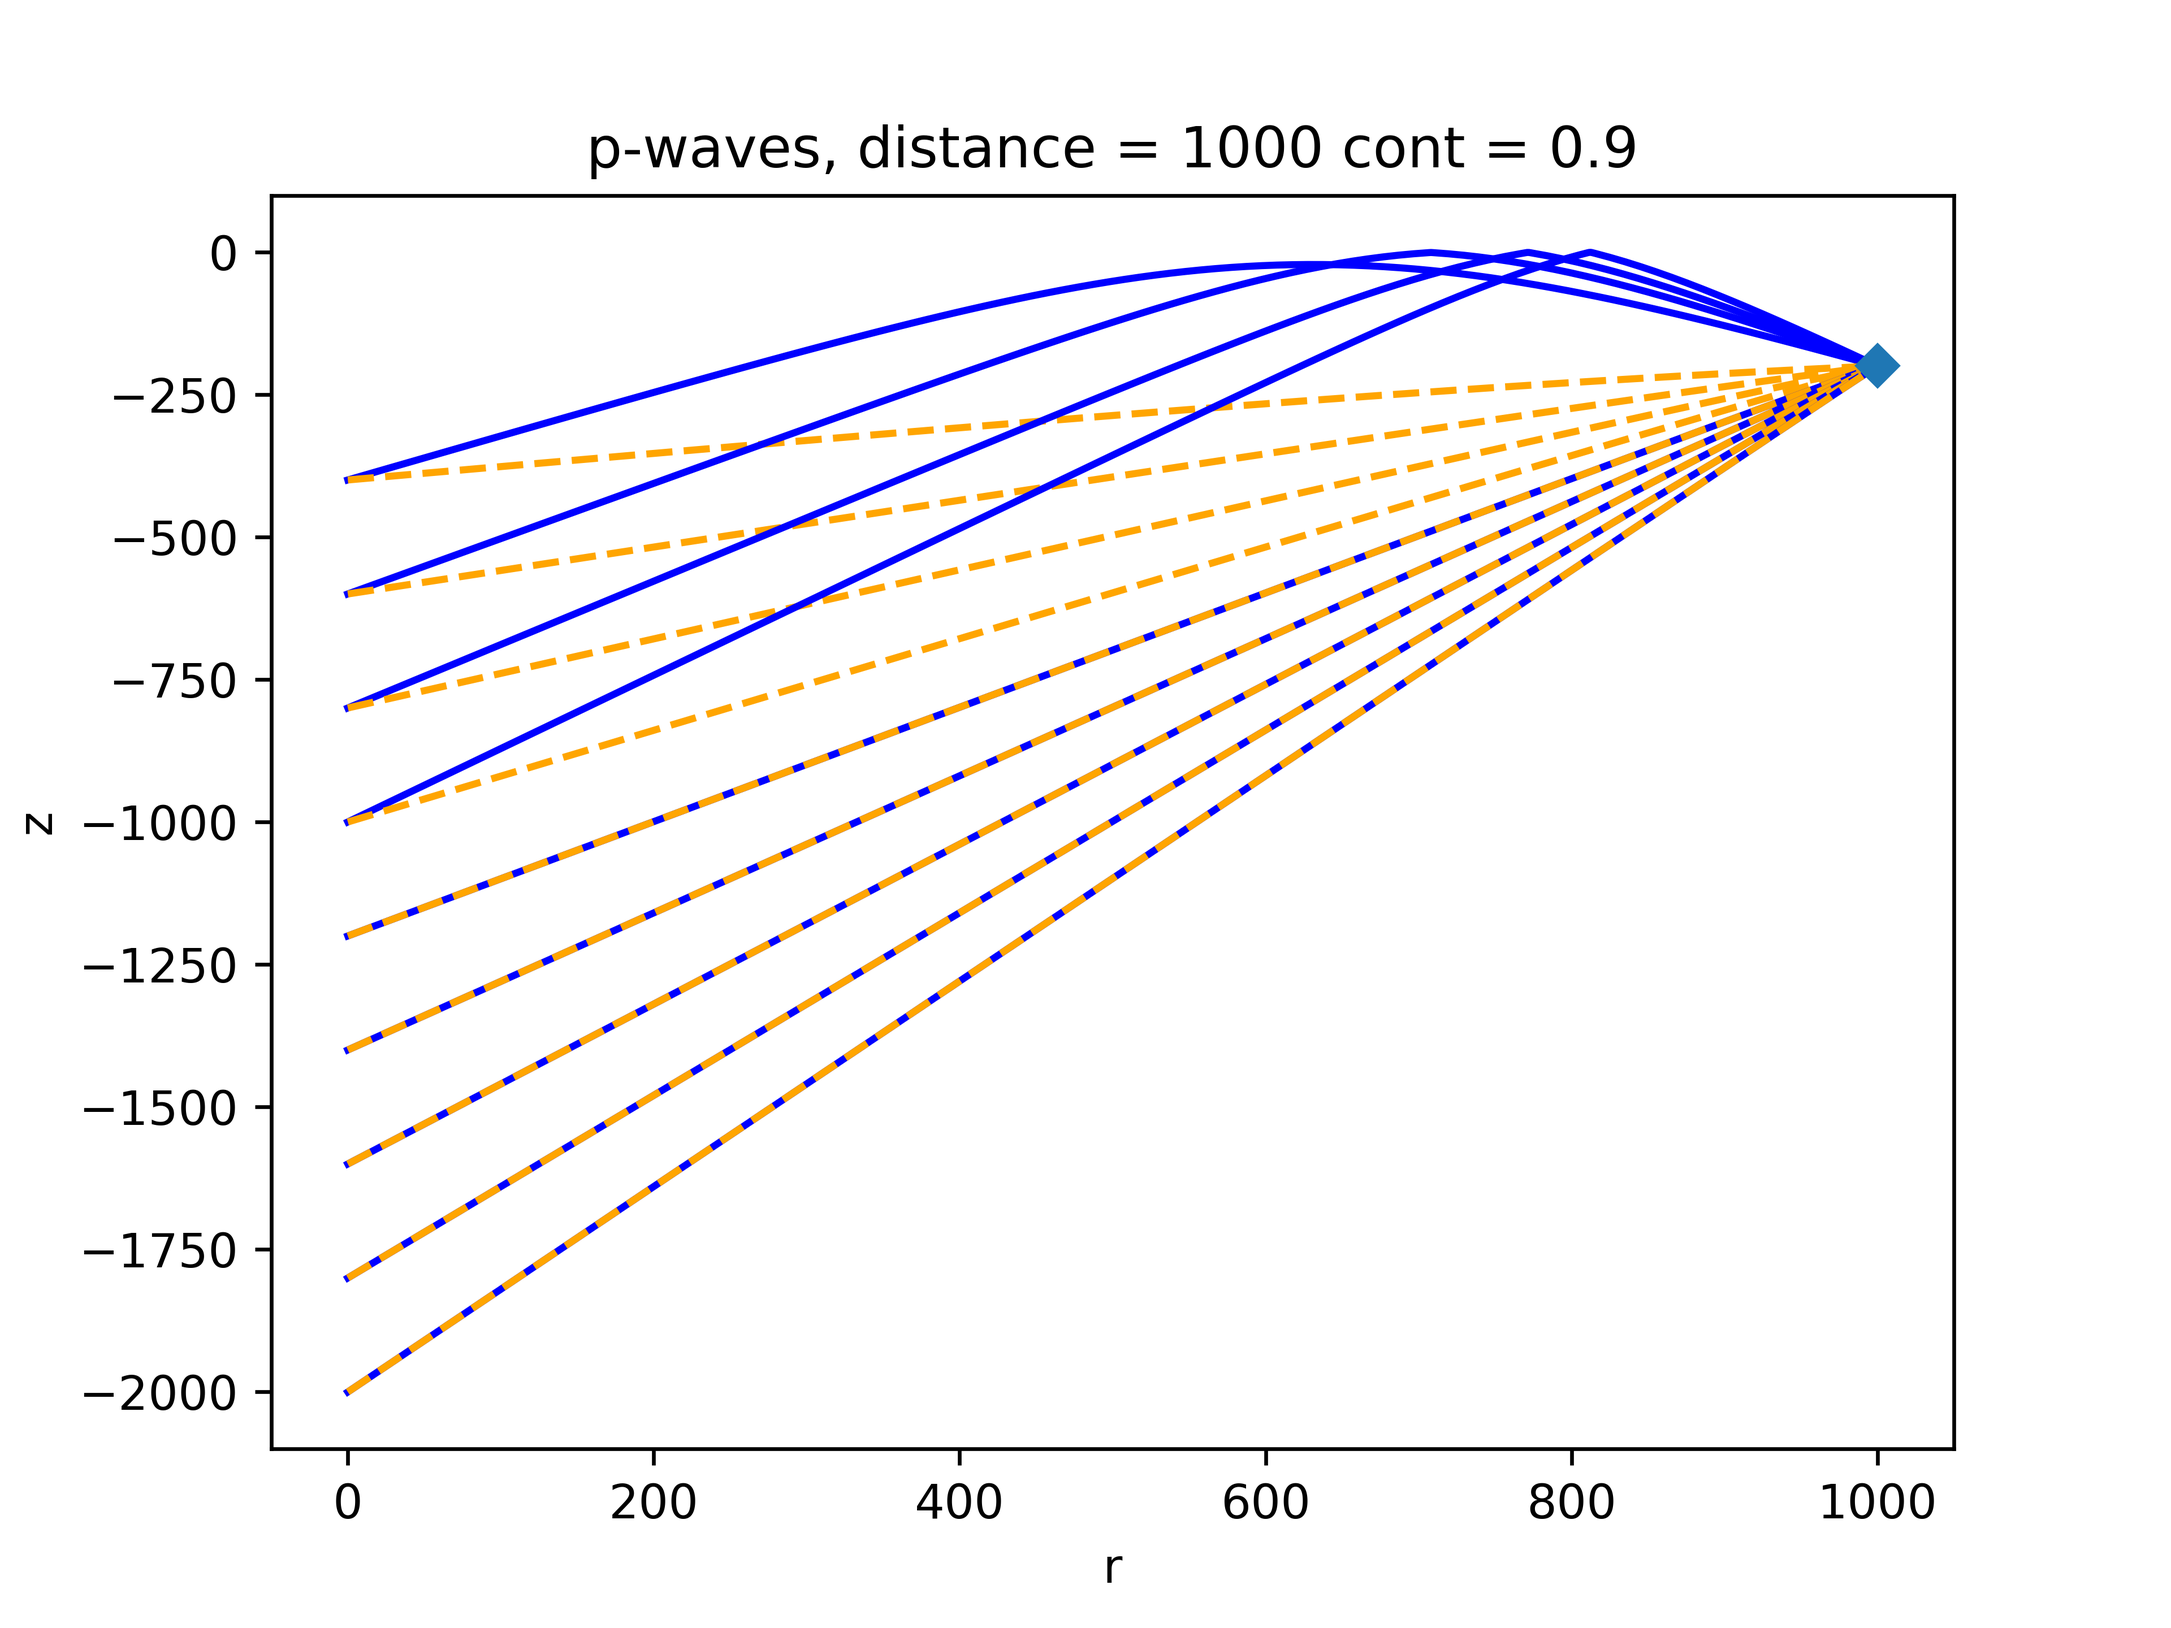
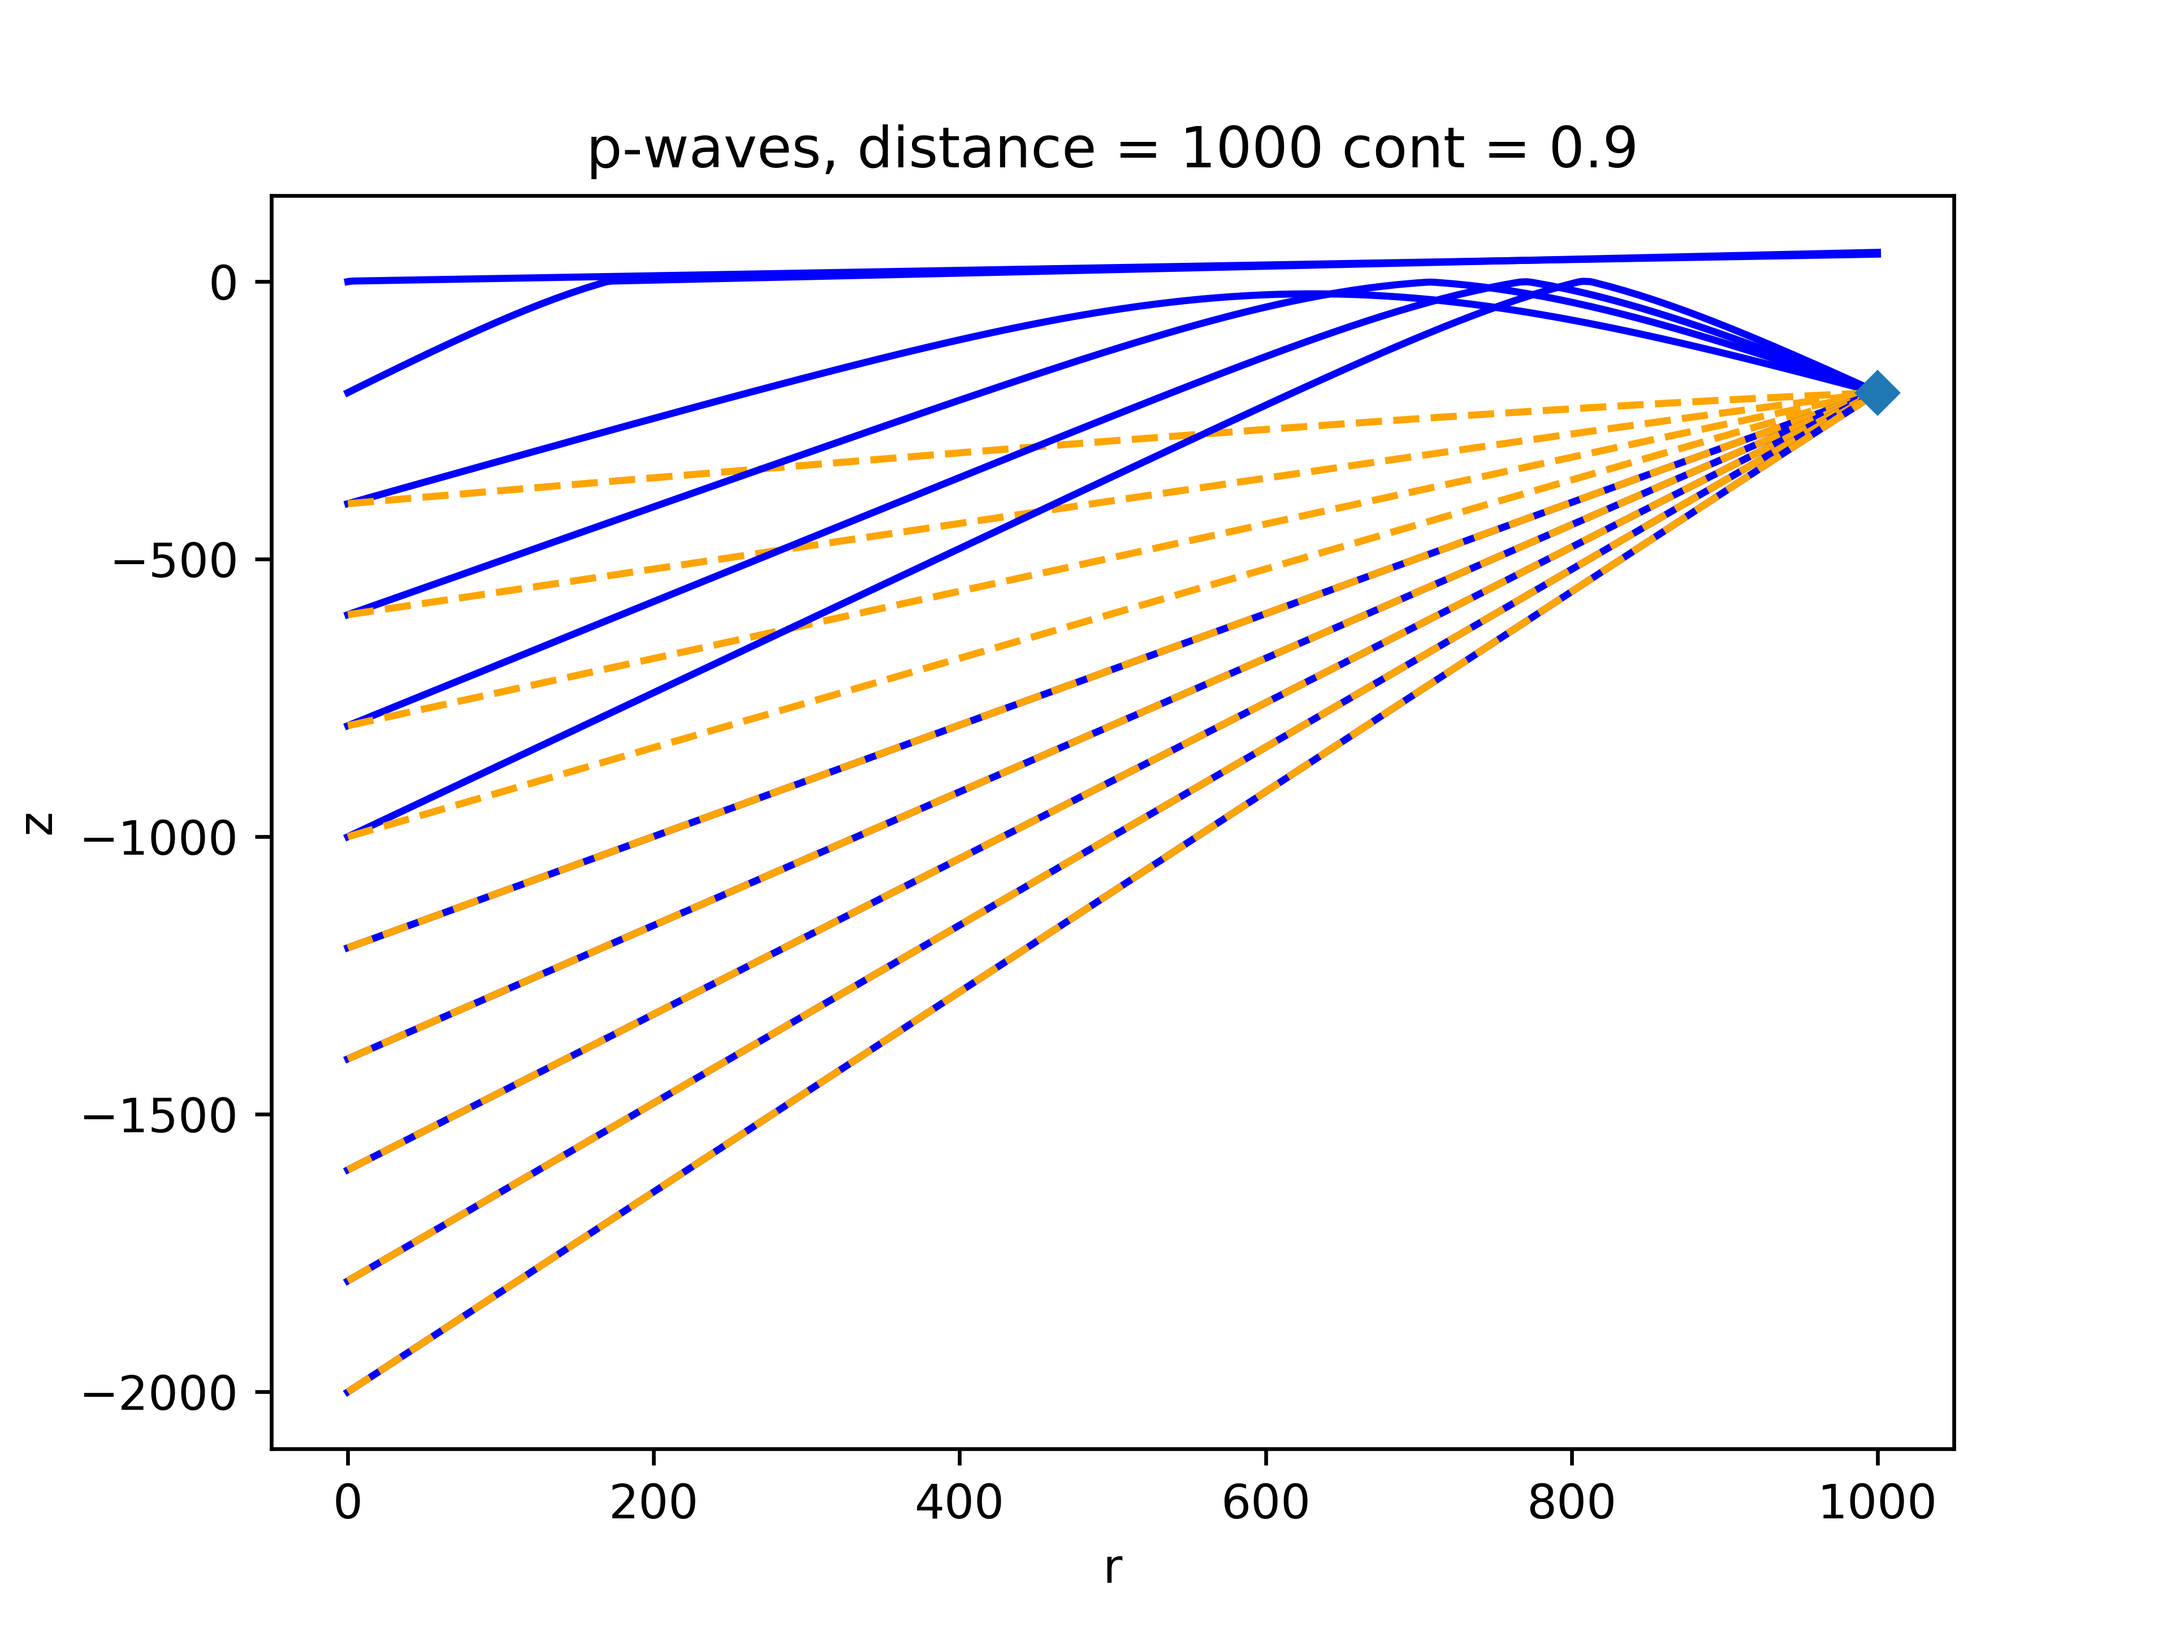
fixing bounding code

diff --git a/polarization/snell_uniaxial_roottests.py b/polarization/snell_uniaxial_roottests.py
@@ -41,16 +41,16 @@ def initialangle(zd, z0):
 
 #example for plotting
 
-podesol1 = sf.get_ray(sf.objfn, sf.podes, initialangle(zm, z0), rmax, z0, zm, dr, np.arcsin(1/sf.ns(z0)), np.pi/2-np.arctan((-zm-z0)/rmax))
-podesol2 = sf.get_ray(sf.objfn, sf.podes, np.pi/2-np.arctan((-zm-z0)/rmax), rmax, z0, zm, dr, np.pi/2-np.arctan((-zm-z0)/rmax), np.pi/2-np.arctan((zm-z0)/rmax))
+podesol1 = sf.get_ray(sf.objfn, sf.podes, rmax, z0, zm, dr, np.arctan(sf.cont/np.sqrt(sf.cont**2*sf.ns(z0)**2 - 1)), np.pi/2-np.arctan((-zm-z0)/rmax))
+podesol2 = sf.get_ray(sf.objfn, sf.podes, rmax, z0, zm, dr, np.pi/2-np.arctan((-zm-z0)/rmax), np.pi/2-np.arctan((zm-z0)/rmax))
 
-sodesol1 = sf.get_ray(sf.objfn, sf.sodes, initialangle(zm, z0), rmax, z0, zm, dr, np.arcsin(1/sf.ns(z0)), np.pi/2-np.arctan((-zm-z0)/rmax))
-sodesol2 = sf.get_ray(sf.objfn, sf.sodes, np.pi/2-np.arctan((-zm-z0)/rmax), rmax, z0, zm, dr, np.pi/2-np.arctan((-zm-z0)/rmax), np.pi/2-np.arctan((zm-z0)/rmax))
+sodesol1 = sf.get_ray(sf.objfn, sf.sodes, rmax, z0, zm, dr, np.arcsin(1/sf.ns(z0)), np.pi/2-np.arctan((-zm-z0)/rmax))
+sodesol2 = sf.get_ray(sf.objfn, sf.sodes, rmax, z0, zm, dr, np.pi/2-np.arctan((-zm-z0)/rmax), np.pi/2-np.arctan((zm-z0)/rmax))
 
 plt.plot(podesol1.t, podesol1.y[1], label = 'p1-wave')
-plt.plot(podesol2.t, podesol2.y[1], '-.', label = 'p2-wave')
+plt.plot(podesol2.t, podesol2.y[1], label = 'p2-wave')
 plt.plot(sodesol1.t, sodesol1.y[1], '--', label = 's1-wave')
-plt.plot(sodesol2.t, sodesol2.y[1], '.', label = 's2-wave')
+plt.plot(sodesol2.t, sodesol2.y[1], '--', label = 's2-wave')
 plt.plot(rmax, zm, 'D', label = 'antenna')
 plt.plot(0, z0, '*', label = 'source')
 plt.title('contrast = '+str(cont))
@@ -61,13 +61,13 @@ plt.savefig('snells_uniaxial_example'+str(cont).replace('.','')+'.png', dpi=600)
 #plt.show()
 plt.clf()
 
-#input()
+input()
 
 #sweeping data
 datanum = 11
 zarr = np.linspace(0, -2000, num=datanum)
 #tab = pd.DataFrame(index=zarr, columns=['p1 launch', 'p1 travel time [ns]', 's1 launch', 's1 travel time [ns]', 'p-s delta launch 1', 'p-s delta t 1 [ns]', 'p2 launch', 'p2 travel time [ns]', 's2 launch', 's2 travel time [ns]', 'p-s delta launch 2', 'p-s delta t 2 [ns]'])
-tmptab = np.zeros((datanum, 12))
+tmptab = np.zeros((datanum, 16))
 
 fig1, ax1 = plt.subplots()
 fig2, ax2 = plt.subplots()
@@ -77,33 +77,33 @@ for j in range(len(zarr)):
     print('\ndepth: ', z0)
     
     print('inital guesses: ', np.arcsin(1/sf.nstmp(z0)), np.pi/2-np.arctan((-zm-z0)/rmax), np.pi/2-np.arctan((zm-z0)/rmax))
-    podesol1 = sf.get_ray(sf.objfn, sf.podes, initialangle(zm, z0), rmax, z0, zm, dr, np.arcsin(1/sf.nstmp(z0)), np.pi/2-np.arctan((-zm-z0)/rmax))
-    podesol2 = sf.get_ray(sf.objfn, sf.podes, np.pi/2-np.arctan((-zm-z0)/rmax), rmax, z0, zm, dr, np.pi/2-np.arctan((-zm-z0)/rmax), np.pi/2-np.arctan((zm-z0)/rmax))
+    podesol1 = sf.get_ray(sf.objfn, sf.podes, rmax, z0, zm, dr, np.arcsin(1/sf.nstmp(z0)), np.pi/2-np.arctan((-zm-z0)/rmax))
+    podesol2 = sf.get_ray(sf.objfn, sf.podes, rmax, z0, zm, dr, np.pi/2-np.arctan((-zm-z0)/rmax), np.pi/2-np.arctan((zm-z0)/rmax))
     if(podesol1 is not None):
         tp1 = 1e9*podesol1.y[2,-1]/speed_of_light
         ax1.plot(podesol1.t, podesol1.y[1], 'b-', label=str(z0))
-        tmptab[j, 0] , tmptab[j, 1] = podesol1.y[0,0], tp1
+        tmptab[j, 0] , tmptab[j, 1], tmptab[j,2] = podesol1.y[0,0], tp1, np.abs(np.abs(sf.npp(podesol1.y[0,0], z0)*np.sin(podesol1.y[0,0])) - np.abs(sf.npp(podesol1.y[0, -1], podesol1.y[1, -1])*np.sin(podesol1.y[0, -1])))
     if(podesol2 is not None):
         tp2 = 1e9*podesol2.y[2,-1]/speed_of_light
         ax1.plot(podesol2.t, podesol2.y[1], '--', color='orange', label=str(z0))
-        tmptab[j, 6] , tmptab[j, 7] = podesol2.y[0,0], tp2
+        tmptab[j, 8] , tmptab[j, 9], tmptab[j,10] = podesol2.y[0,0], tp2, np.abs(np.abs(sf.npp(podesol1.y[0,0], z0)*np.sin(podesol1.y[0,0])) - np.abs(sf.npp(podesol1.y[0, -1], podesol1.y[1, -1])*np.sin(podesol1.y[0, -1])))
     
-    sodesol1 = sf.get_ray(sf.objfn, sf.sodes, initialangle(zm, z0), rmax, z0, zm, dr, np.arcsin(1/sf.nstmp(z0)), np.pi/2-np.arctan((-zm-z0)/rmax))
-    sodesol2 = sf.get_ray(sf.objfn, sf.sodes, np.pi/2-np.arctan((-zm-z0)/rmax), rmax, z0, zm, dr, np.pi/2-np.arctan((-zm-z0)/rmax), np.pi/2-np.arctan((zm-z0)/rmax))
+    sodesol1 = sf.get_ray(sf.objfn, sf.sodes, rmax, z0, zm, dr, np.arcsin(1/sf.nstmp(z0)), np.pi/2-np.arctan((-zm-z0)/rmax))
+    sodesol2 = sf.get_ray(sf.objfn, sf.sodes, rmax, z0, zm, dr, np.pi/2-np.arctan((-zm-z0)/rmax), np.pi/2-np.arctan((zm-z0)/rmax))
 
     if(sodesol1 is not None):
         ts1 = 1e9*sodesol1.y[2,-1]/speed_of_light
         ax2.plot(sodesol1.t, sodesol1.y[1], 'b-', label = str(z0))
-        tmptab[j, 2] , tmptab[j, 3] = sodesol1.y[0,0], ts1
+        tmptab[j, 3] , tmptab[j, 4], tmptab[j,5] = sodesol1.y[0,0], ts1, np.abs(np.abs(sf.no(z0)*np.sin(sodesol1.y[0,0])) - np.abs(sf.no(sodesol1.y[1, -1])*np.sin(sodesol1.y[0, -1])))
     if(sodesol2 is not None):
         ts2 = 1e9*sodesol2.y[2,-1]/speed_of_light
         ax2.plot(sodesol2.t, sodesol2.y[1], '--', color='orange', label = str(z0))
-        tmptab[j, 8] , tmptab[j, 9] = sodesol2.y[0,0], ts2
+        tmptab[j, 11] , tmptab[j, 12], tmptab[j,13] = sodesol2.y[0,0], ts2, np.abs(np.abs(sf.no(z0)*np.sin(sodesol1.y[0,0])) - np.abs(sf.no(sodesol1.y[1, -1])*np.sin(sodesol1.y[0, -1])))
 
     if(podesol1 is not None and sodesol1 is not None):
-        tmptab[j, 4], tmptab[j,5] = podesol1.y[0,0] - sodesol1.y[0,0], tp1-ts1
+        tmptab[j, 6], tmptab[j,7] = podesol1.y[0,0] - sodesol1.y[0,0], tp1-ts1
     if(podesol2 is not None and sodesol2 is not None):
-        tmptab[j, 10], tmptab[j, 11] = podesol2.y[0,0] - sodesol2.y[0,0], tp2-ts2
+        tmptab[j, 14], tmptab[j, 15] = podesol2.y[0,0] - sodesol2.y[0,0], tp2-ts2
 
 #plt.title('blues = p-waves, oranges = s-waves, cont = '+str(cont))
 ax2.set_title('s-waves, distance = '+str(rmax) +' cont = '+str(cont))
@@ -123,7 +123,7 @@ fig1.savefig('pwavesweep'+str(cont).replace('.','')+'.png', dpi=600)
 
 #tab = pd.DataFrame(data=tmptab, index=zarr, columns=['p launch', 't_p [ns]', 's launch', 't_s [ns]', 'p-s delta launch', 'p-s delta t [ns]'])
 
-tab = pd.DataFrame(data=tmptab, index=zarr, columns=['p1 launch', 'p1 travel time [ns]', 's1 launch', 's1 travel time [ns]', 'p-s delta launch 1', 'p-s delta t 1 [ns]', 'p2 launch', 'p2 travel time [ns]', 's2 launch', 's2 travel time [ns]', 'p-s delta launch 2', 'p-s delta t 2 [ns]'])
+tab = pd.DataFrame(data=tmptab, index=zarr, columns=['p1 launch', 'p1 travel time [ns]', 'p1 d(n sin(angle))', 's1 launch', 's1 travel time [ns]', 's1 d(n sin(angle))', 'p-s delta launch 1', 'p-s delta t 1 [ns]', 'p2 launch', 'p2 travel time [ns]', 'p2 d(n sin(angle))', 's2 launch', 's2 travel time [ns]', 's2 d(n sin(angle))', 'p-s delta launch 2', 'p-s delta t 2 [ns]'])
 tab.to_csv('snells_uniaxial_data'+str(cont).replace('.','')+'.csv')
 
 #plt.savefig('snell_uniaxial_sweep_'+str(cont).replace('.','')+'.png', dpi=600)

diff --git a/polarization/snell_sweep_tests.py b/polarization/snell_sweep_tests.py
@@ -10,39 +10,83 @@ from scipy.constants import speed_of_light
 import snell_fns as sf
 
 rmax = 1000
-z0 = -200
+z0 = -1200
 zm = -200
 dr = 10
 dz = 10
 
-angs = np.linspace(np.arcsin(1/sf.ns(z0))-0.1, np.pi/2, num=500)
+angs = np.linspace(np.arcsin(1/sf.ns(z0))-0.1, np.pi/2, num=300)
 depths = np.linspace(-100, -2000, num=5)
 zp = np.zeros(len(angs))
 zs = np.zeros(len(angs))
+ptests, stests = np.zeros(len(angs)), np.zeros(len(angs))
+
+#fig, (ax1, ax2, ax3) = plt.subplots(nrows=1, ncols=3)
+
+ctr = 0
 
 for i in range(len(angs)):
     #for j in range(len(depths)):
-        podesol = solve_ivp(sf.podes, [0, rmax], [angs[i], z0, 0], method='DOP853')
-        sodesol = solve_ivp(sf.sodes, [0, rmax], [angs[i], z0, 0], method='DOP853')
+        podesol = solve_ivp(sf.podes, [0, rmax], [angs[i], z0, 0], method='DOP853', max_step=dr)
+        sodesol = solve_ivp(sf.sodes, [0, rmax], [angs[i], z0, 0], method='DOP853', max_step=dr)
+        ptests[i] = np.abs(np.abs(sf.npp(angs[i], z0)*np.sin(angs[i])) - np.abs(sf.npp(podesol.y[0, -1], podesol.y[1, -1])*np.sin(podesol.y[0, -1])))
+        stests[i] = np.abs(np.abs(sf.no(z0)*np.sin(angs[i])) - np.abs(sf.no(sodesol.y[1,-1])*np.sin(sodesol.y[0,-1])))
         #plt.figure(1)
-        #plt.plot(podesol.t, podesol.y[1])
+        plt.plot(podesol.t, podesol.y[1])
         #plt.plot
-    
+        '''
+        if angs[i] > np.arcsin(sf.nss/sf.no(z0)):
+            #refracted
+            ax1.plot(sodesol.t, sodesol.y[1])
+            ctr += 1
+        elif angs[i] < np.arcsin(sf.nss/sf.no(z0)) and angs[i] >= np.arcsin(1/sf.no(z0)):
+            #reflected
+            ax2.plot(sodesol.t, sodesol.y[1])
+            ctr += 1
+        else:
+            ax3.plot(sodesol.t, sodesol.y[1])
+        '''
+        '''
+        if angs[i] > np.arctan(sf.nss*sf.cont/np.sqrt(sf.cont**2*sf.no(z0)**2-sf.nss**2)):
+            #refracted
+            ax1.plot(sodesol.t, sodesol.y[1])
+            ctr += 1
+        elif angs[i] < np.arcsin(sf.nss/sf.no(z0)) and angs[i] >= np.arcsin(1/sf.no(z0)):
+            #reflected
+            ax2.plot(sodesol.t, sodesol.y[1])
+            ctr += 1
+        else:
+            ax3.plot(sodesol.t, sodesol.y[1])
+        '''
+
         zp[i], zs[i] = podesol.y[1, -1], sodesol.y[1,-1]
-        
-#plt.figure(2)
+
+print('all plotted?', ctr == len(angs), ctr)
+#plt.show()
+plt.clf()
+
+plt.semilogy(angs, ptests, label='p')
+plt.semilogy(angs, stests, label='s')
+plt.vlines([np.arcsin(1/(sf.ns(z0)))], min(min(ptests), min(stests)), max(max(ptests), max(stests)), colors='k')
+plt.legend()
+#plt.show()
+plt.clf()
+print(np.max(ptests), np.max(stests))
+
 plt.plot(angs, zp-zm,'-', label='p-waves')
 plt.plot(angs, zs-zm, '--', label='s-waves')
 plt.hlines(0, angs[0], angs[-1], colors='r', linestyles='-')
-plt.vlines([np.arcsin(1/(sf.ns(z0))), np.pi/2-np.arctan((-zm-z0)/rmax), np.pi/2-np.arctan((zm-z0)/rmax)], min(min(zp), min(zs)), max(max(zp), max(zs)), colors='k')
-plt.vlines([np.arctan(sf.cont/np.sqrt(sf.cont**2*sf.ns(z0)**2-1))], min(min(zp), min(zs)), max(max(zp), max(zs)), colors='g')
+#plt.vlines([np.arcsin(1/(sf.ns(z0))), np.pi/2-np.arctan((-zm-z0)/rmax), np.pi/2-np.arctan((zm-z0)/rmax)], min(min(zp), min(zs)), max(max(zp), max(zs)), colors='k')
+plt.vlines([np.arcsin(1/(sf.ns(z0))), np.arctan(sf.cont/np.sqrt(sf.cont**2*sf.ns(z0)**2 - 1))], min(min(zp), min(zs)), max(max(zp), max(zs)), colors=['g', 'k'])
+print('npp',sf.npp(np.arctan(sf.cont/np.sqrt(sf.ns(z0)**2 - 1)), z0))
+#plt.vlines([np.arctan(sf.cont/np.sqrt(sf.no(z0)**2-1))], min(min(zp), min(zs)), max(max(zp), max(zs)), colors='m')
 
 plt.xlabel('initial ' + r'$\theta$')
 plt.ylabel('antenna depth - final depth')
 plt.title('radial distance = 1 km, initial depth = '+str(z0)+' m, contrast = ' + str(sf.cont))
+plt.show()
 plt.legend()
 #plt.savefig(str(z0)+'m_depthsvtheta.png', dpi=600)
-plt.show()
 
 print('done 1st plot')
 print('p1 bounds')

diff --git a/polarization/snell_fns.py b/polarization/snell_fns.py
@@ -59,7 +59,6 @@ def notmp(z):
     if z < -d:
         return a + b*np.exp(z*c)
 
-
 def eps(z):
     # epsilon is diagonal
     return np.diag([(no(z))**2, (no(z))**2, (nz(z))**2])
@@ -102,21 +101,36 @@ def dnsdz(z):
     return dnodz(z)
 
 def npp(theta, z):
-    #p-polarizatoin index of refraction
-    return no(z)*nz(z)/np.sqrt(nz(z)**2*np.cos(theta)**2+no(z)**2*np.sin(theta)**2)
+    #p-polarization index of refraction
+    n = lambda theta, z: no(z)*nz(z)/np.sqrt(nz(z)**2*np.cos(theta)**2+no(z)**2*np.sin(theta)**2)
 
+    n1 = n(theta,-d)
+    
+    if z >= 0:
+        return 1
+    if np.abs(z) <= d:
+        return (n2-n1)*z/(2*d) + (n2+n1)/2
+    if z < 0:
+        return n(theta, z)
+    
 def dnpdtheta(theta, z):
     #partial of np w.r.t. theta
-    if z >= -d:
+    dn = lambda theta, z: no(z)*nz(z)*np.sin(theta)*np.cos(theta)*(nz(z)**2-no(z)**2)/(nz(z)**2*np.cos(theta)**2+no(z)**2*np.sin(theta)**2)**1.5
+    
+    dn1 = dn(theta, -d)
+
+    if z > d:
         return 0
+    if np.abs(z) <= d:
+        return -dn1*z/(2*d) + dn1/2
     if z < -d:
-        return no(z)*nz(z)*np.sin(theta)*np.cos(theta)*(nz(z)**2-no(z)**2)/(nz(z)**2*np.cos(theta)**2+no(z)**2*np.sin(theta)**2)**1.5
+        return dn(theta, z)
 
 def dnpdz(theta, z):
     #partial of np w.r.t. z
-    a = nd
-    b = nss - nd
-    n1 = a + b*np.exp(-d*c)
+    n = lambda theta, z: no(z)*nz(z)/np.sqrt(nz(z)**2*np.cos(theta)**2+no(z)**2*np.sin(theta)**2)
+    
+    n1 = n(theta,-d)
 
     if z > d:
         return 0
@@ -152,7 +166,7 @@ def initialangle(zd, z0):
     if zd-z0 >= 0:
         return np.pi/2 - np.arctan((zd-z0)/rmax)
 
-def get_ray(minfn, odefn, mininit, rmax, z0, zm, dr, a, b):
+def get_ray(minfn, odefn, rmax, z0, zm, dr, a, b):
     lb, rb = get_bounds(a, b, odefn, rmax, z0, zm, dr)
     if(lb == None and rb == None):
         return None

diff --git a/polarization/plotterutil.py b/polarization/plotterutil.py
@@ -1,0 +1,10 @@
+import numpy as np
+import matplotlib.pyplot as plt
+import snell_fns as sf
+
+z=np.linspace(10, -500, num=1000)
+ang = np.random.random()*np.pi*2
+plt.plot(z, [sf.npp(ang, z[i]) for i in range(len(z))])
+plt.xlim([z[0], z[-1]])
+plt.show()
+
